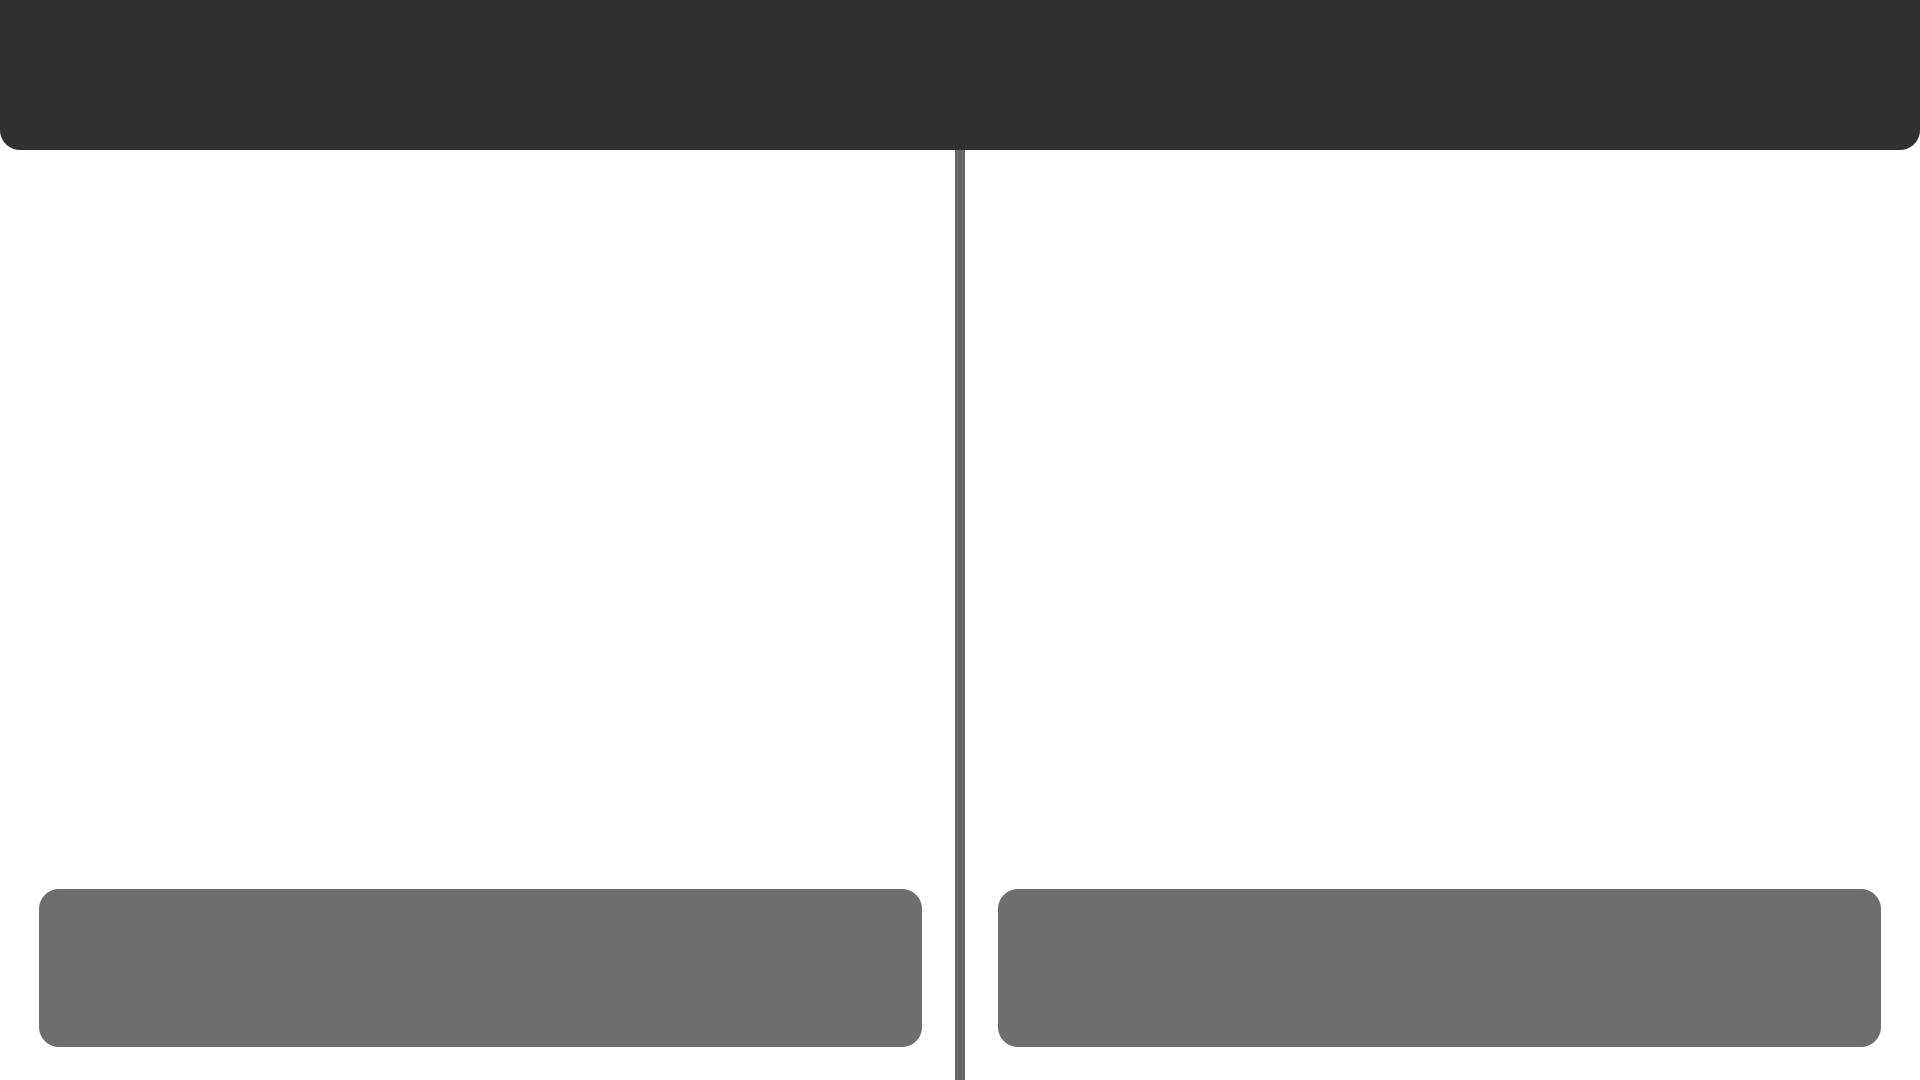
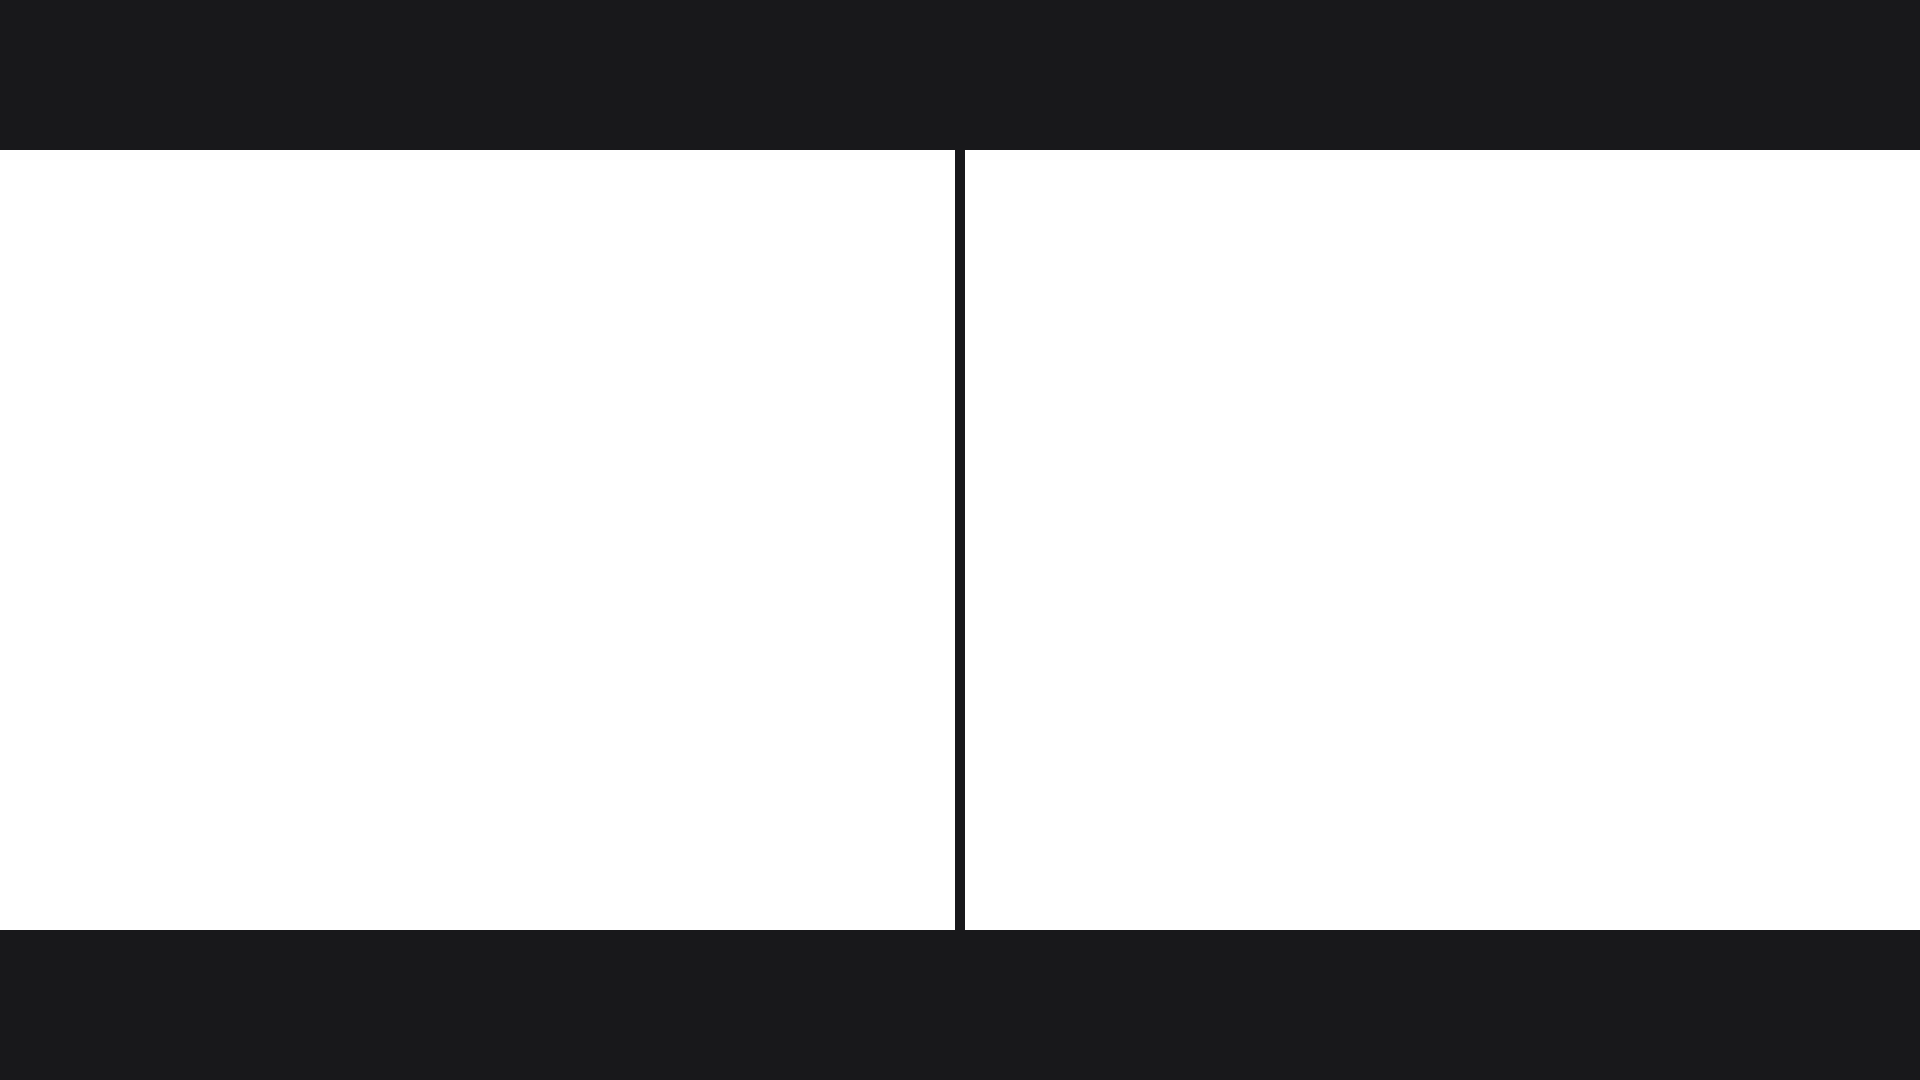
Add Shino's redesign, add padding to text function

Changed region(s): [[0.0, 0.825, 1.0, 1.0]]

diff --git a/src/thumbnail/main_generate_thumbnail.py b/src/thumbnail/main_generate_thumbnail.py
@@ -245,12 +245,12 @@ def paste_image_matrix(thumbnail, path_matrix, max_size, paste_coordinates, eyes
 
 def paste_characters(thumbnail, data, all_eyesight, used_assets, flip_p1=False, flip_p2=False, fill_x=True, fill_y=True, zoom=1):
     max_x_size = round(thumbnail.width()/2)
-    max_y_size = thumbnail.height()
-    max_size = (max_x_size, max_y_size-118/1080*thumbnail.height())
+    max_y_size = 780/1080*thumbnail.height()
+    max_size = (max_x_size, max_y_size)
     origin_x_coordinates = [0, max_x_size]
     origin_y_coordinates = [
-        118/1080*thumbnail.height(),
-        118/1080*thumbnail.height()
+        150/1080*thumbnail.height(),
+        150/1080*thumbnail.height()
     ]
 
     for i in [0, 1]:
@@ -346,26 +346,26 @@ def reduce_text_size_to_width(thumbnail, font_path, text_size, text, max_width, 
     #     return(reduce_text_size_to_width(thumbnail, font_path, text_size-1, text, max_width, recursion_level+1))
 
 
-def draw_text(thumbnail, text, font, max_font_size, color, pos, container_size, outline, outline_color):
+def draw_text(thumbnail, text, font, max_font_size, color, pos, container_size, outline, outline_color, padding=(32, 16)):
     painter = QPainter(thumbnail)
     painter.setRenderHint(QPainter.RenderHint.Antialiasing)
 
-    font = QFont(font, max_font_size)
+    font = QFont(font, int(max_font_size))
 
     fontMetrics = QFontMetricsF(font)
 
-    while(fontMetrics.height() > int(container_size[1]*thumbnail.height())):
+    while(fontMetrics.height()+2*padding[1] > int(container_size[1]*thumbnail.height())):
         max_font_size -= 1
-        font.setPixelSize(max_font_size)
+        font.setPixelSize(int(max_font_size))
         fontMetrics = QFontMetricsF(font)
 
-    while(fontMetrics.width(text) > int(container_size[0]*thumbnail.width())):
+    while(fontMetrics.width(text)+2*padding[0] > int(container_size[0]*thumbnail.width())):
         max_font_size -= 1
-        font.setPixelSize(max_font_size)
+        font.setPixelSize(int(max_font_size))
         fontMetrics = QFontMetricsF(font)
 
-    text_x = round(pos[0]*thumbnail.width())
-    text_y = round(pos[1]*thumbnail.height())
+    text_x = round((pos[0]+padding[0])*thumbnail.width())
+    text_y = round((pos[1]+padding[1])*thumbnail.height())
     text_coordinates = (text_x, text_y)
 
     if outline:
@@ -394,10 +394,10 @@ def draw_text(thumbnail, text, font, max_font_size, color, pos, container_size, 
 
     path.addText(
         int(text_coordinates[0]) +
-        container_size[0]*thumbnail.width() /
+        (container_size[0]-padding[0]*2)*thumbnail.width() /
         2 - fontMetrics.width(text)/2,
         int(text_coordinates[1]) + fontMetrics.height()/4 +
-        container_size[1]*thumbnail.height()/2,
+        (container_size[1]-padding[1]*2)*thumbnail.height()/2,
         font,
         text
     )
@@ -414,10 +414,10 @@ def draw_text(thumbnail, text, font, max_font_size, color, pos, container_size, 
 
 def paste_player_text(thumbnail, data, use_team_names=False, use_sponsors=True):
     text_player_coordinates = [
-        (30/1920, 900/1080),
-        (990/1920, 900/1080)
+        (0/1920, 930/1080),
+        (960/1920, 930/1080)
     ]
-    text_player_max_dimensions = (900/1920, 150/1080)
+    text_player_max_dimensions = (960/1920, 150/1080)
 
     font_path = font_1
     # get_text_size_for_height(thumbnail, font_path, pixel_height)
